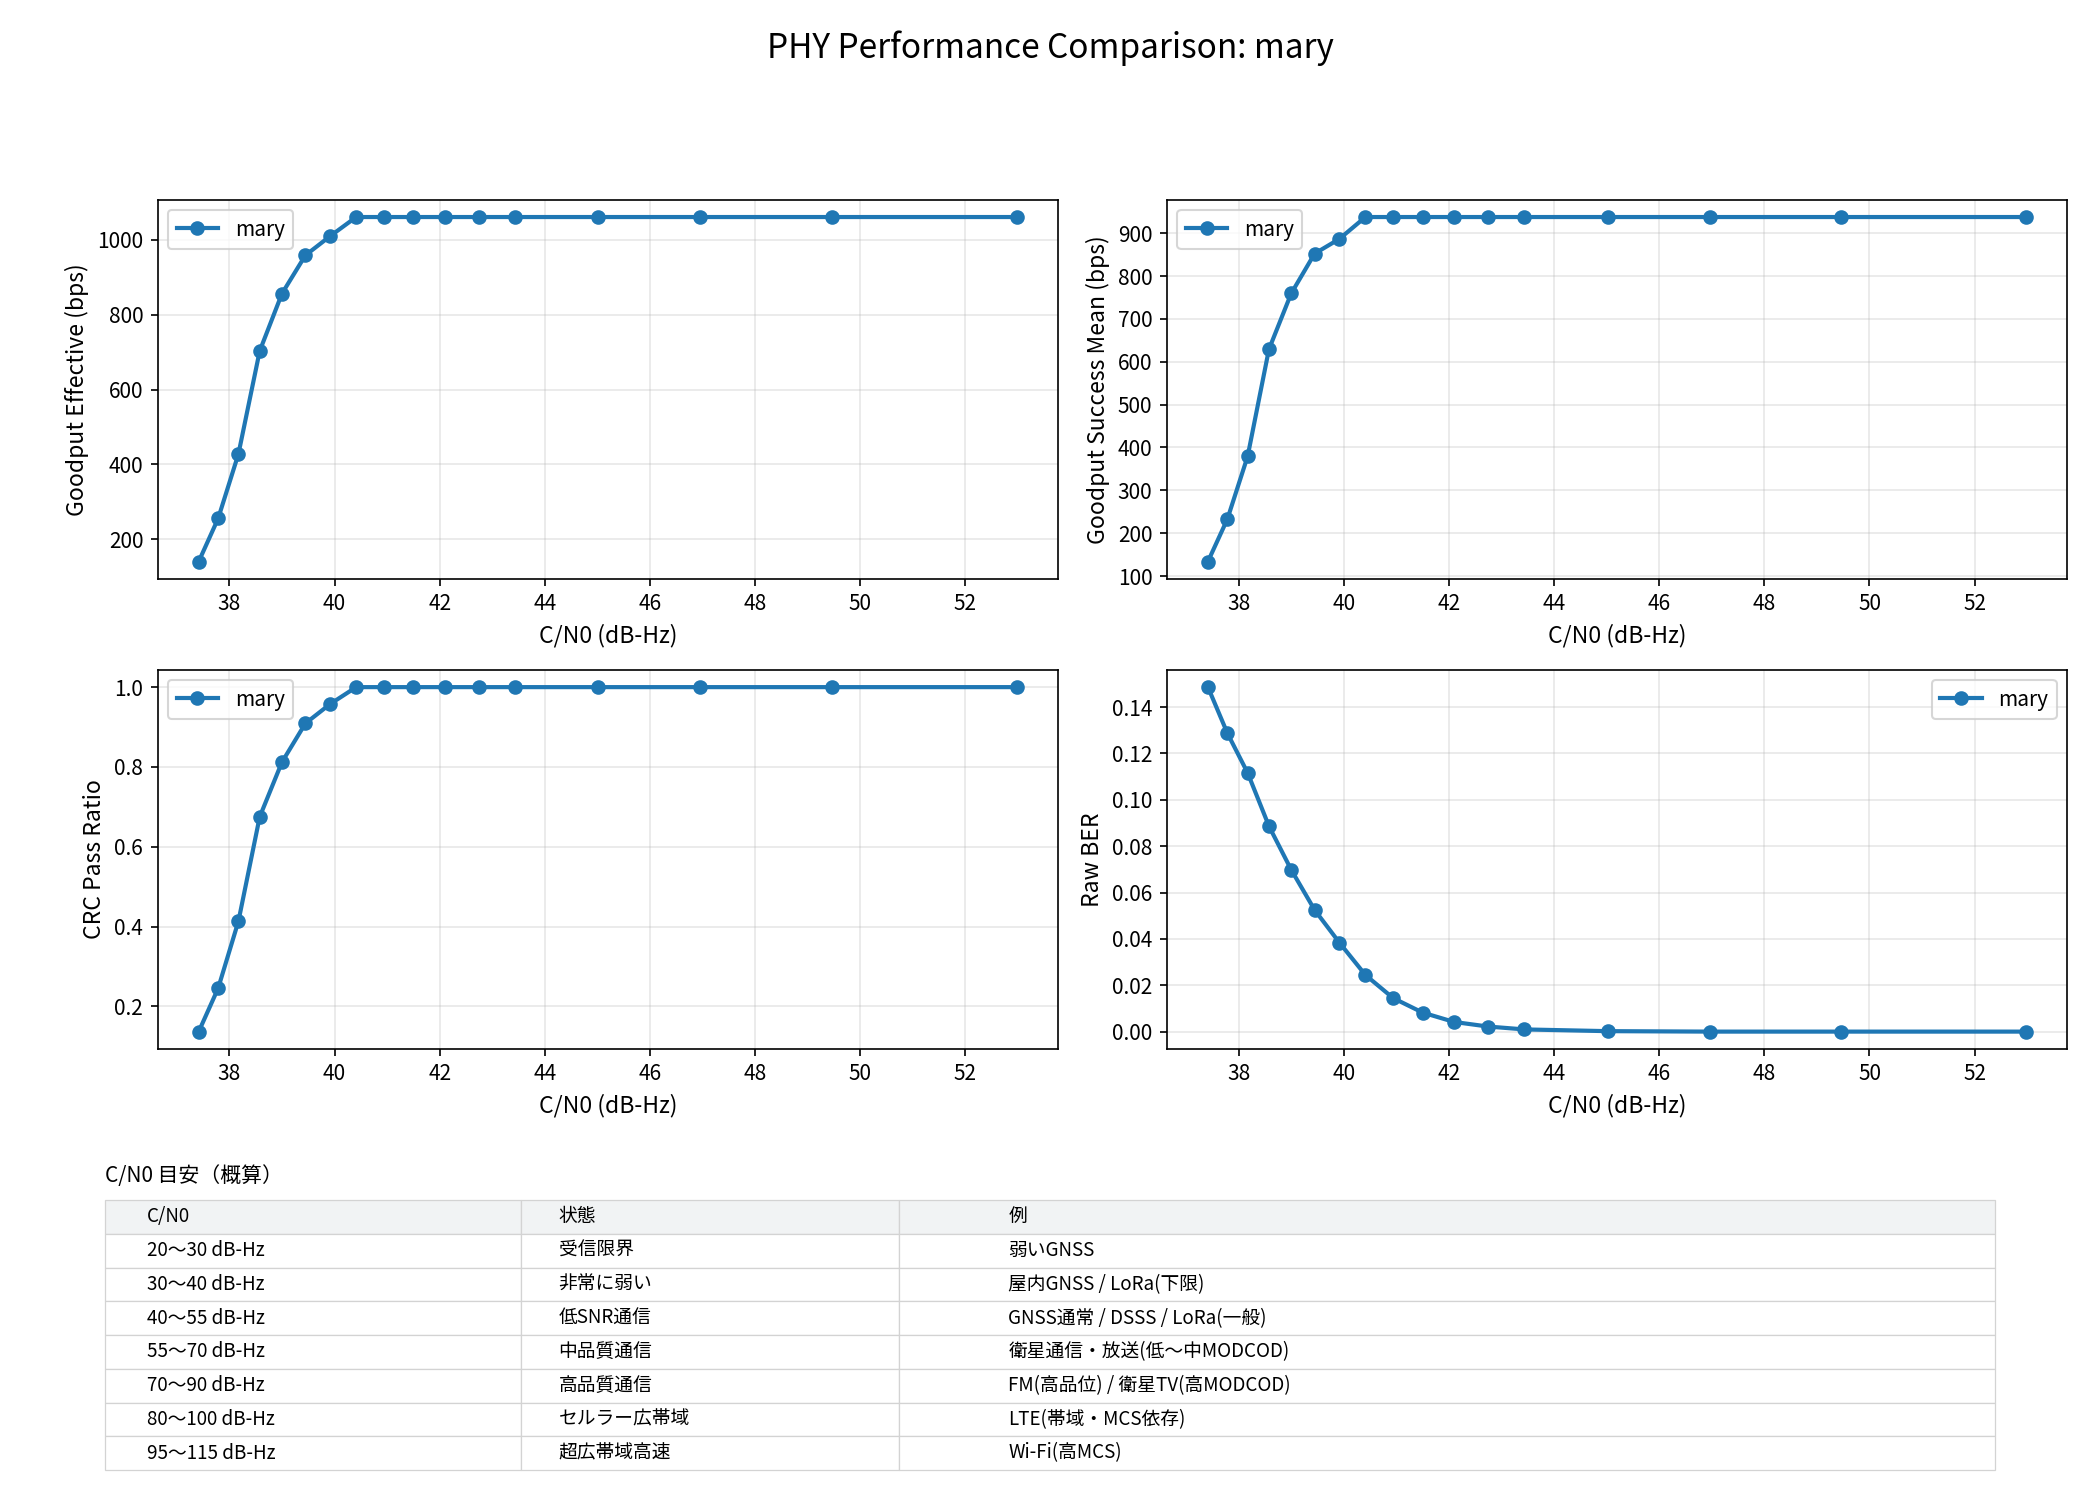
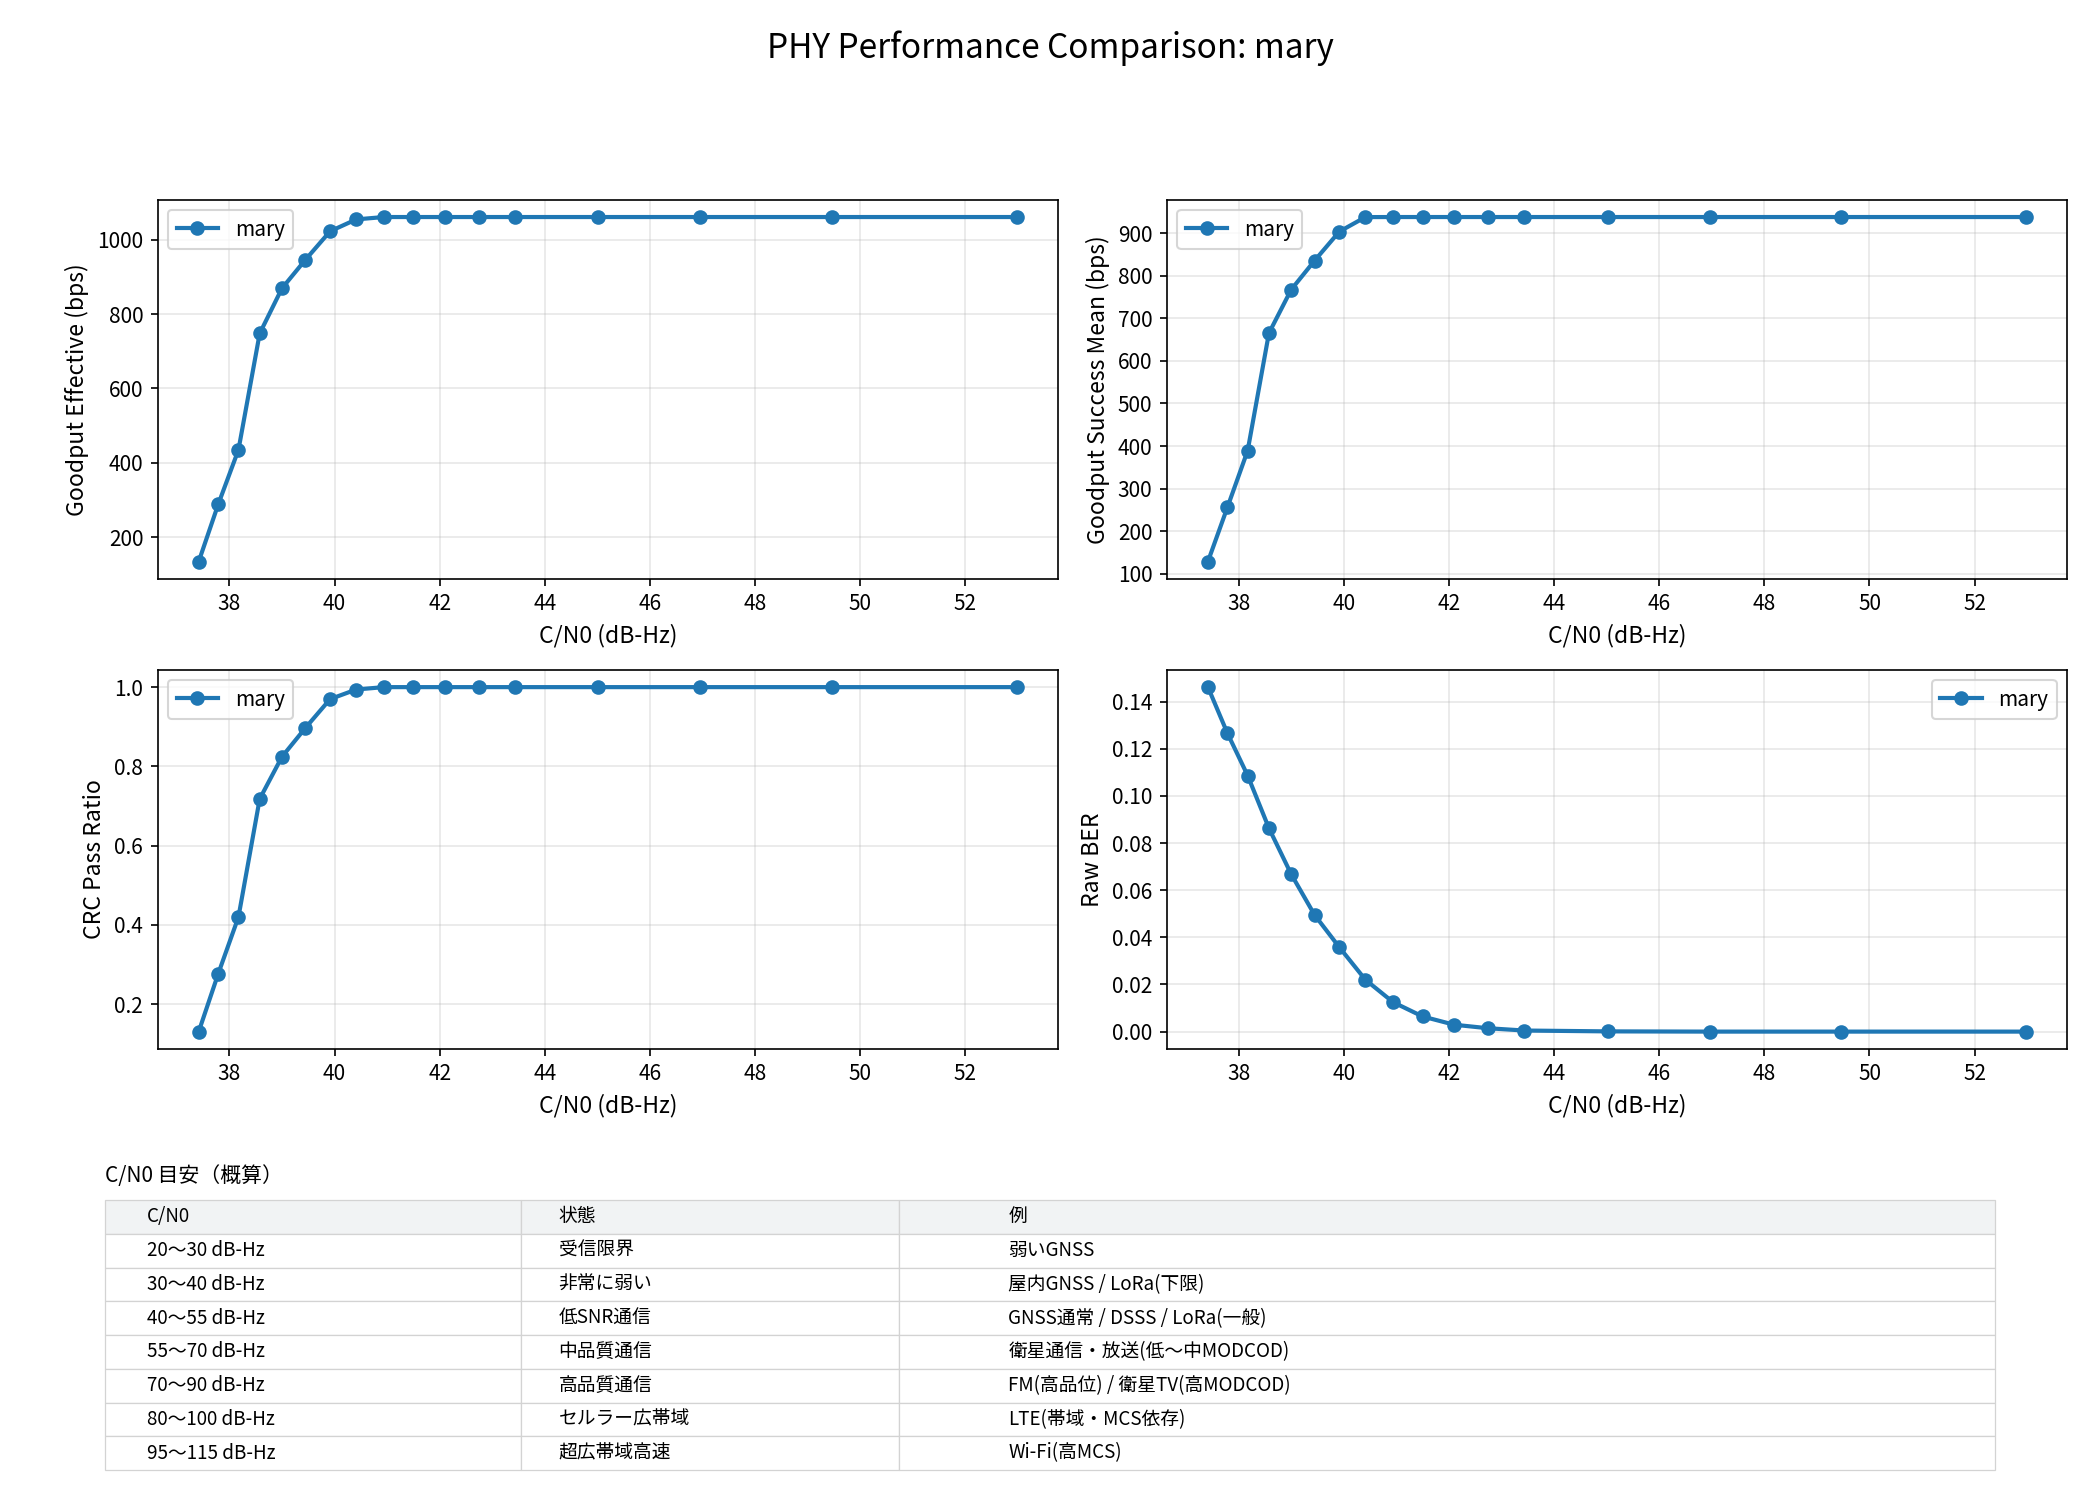
Improve DQPSK soft metrics with joint Walsh marginalization

diff --git a/dsp/src/mary/decoder/packet_decoder.rs b/dsp/src/mary/decoder/packet_decoder.rs
@@ -87,16 +87,26 @@ pub(crate) struct PacketDecodeRuntime<'a> {
     pub llr_callback: &'a mut Option<LlrCallback>,
 }
 
-// DQPSK LLR は通常は best Walsh 仮説で計算する。
-// ただし Walsh 判定が曖昧な場合のみ上位仮説を混合し、LLR をやや保守化して
-// 復号処理で扱いやすい形に寄せる。
-const DQPSK_WALSH_TOPK_MAX: usize = 2;
-// walsh_conf = (E1-E2)/E1 がこの値未満なら Top-K 混合を有効化する。
+// DQPSK LLR は (Walsh仮説 h, 位相仮説 s) の同時尤度を
+// 全Walsh仮説で周辺化して計算する。
+// walsh_conf は位相追跡のゲート制御にも使うため継続して算出する。
+const DQPSK_WALSH_HYPOTHESES: usize = 16;
+// walsh_conf = (E1-E2)/E1 の観測閾値（統計/テストの判定用）。
+// 範囲: [0, 1]。大きくすると「曖昧」と判定される領域が広がる。
+#[cfg(test)]
 const DQPSK_WALSH_TOPK_ENABLE_CONF_THRESH: f32 = 0.30;
 // DQPSK LLR 正規化の雑音床下限スケール。
 // 小さくすると LLR が立ちやすくなり、弱い仮説を過信しやすい（誤判定時の振れが大きくなる）。
 // 大きくすると LLR を保守化できる一方、十分高SNRでも過小信頼になり得る。
+// 妥当目安: >= 1.0。1.0未満は雑音床を過小評価しやすく、LLR過大化を招きやすい。
 const DQPSK_LLR_NOISE_FLOOR_SCALE: f32 = 5.0;
+// prev_phase の位相不確かさ分散推定（EWMA）に使う係数。
+// 妥当範囲: 0.0..1.0（1.0は更新停止に近いので非推奨）。
+// 大きいほど長期平均寄りで安定だが追従は遅く、小さいほど追従は速いが雑音に敏感。
+const DQPSK_PREV_PHASE_VAR_EWMA_ALPHA: f32 = 0.95;
+// 位相分散の上限 [rad]。外れ値で分散推定が暴走しないためのクリップ。
+// 妥当目安: 0.5..PI。小さすぎると常時保守化、大きすぎると外れ値耐性が下がる。
+const DQPSK_PREV_PHASE_SIGMA_MAX_RAD: f32 = 1.2;
 // 期待シンボルの振幅がこの値未満なら、方向が不安定とみなして hard 判定へフォールバックする。
 const DQPSK_PHASE_SOFT_SYMBOL_NORM_MIN: f32 = 1e-3;
 
@@ -115,11 +125,41 @@ struct DecodeCandidateContext<'a> {
     options: &'a PacketDecodeOptions,
 }
 
+#[inline]
+fn log_add_exp(a: f32, b: f32) -> f32 {
+    if !a.is_finite() {
+        return b;
+    }
+    if !b.is_finite() {
+        return a;
+    }
+    let m = a.max(b);
+    m + ((a - m).exp() + (b - m).exp()).ln()
+}
+
+#[inline]
+fn dqpsk_symbol_metrics(diff: Complex32, norm_scale: f32) -> [f32; 4] {
+    let d = diff / norm_scale.max(1e-6);
+    [
+        d.re,  // s0: phase0 -> 00
+        d.im,  // s1: phase1 -> 01
+        -d.re, // s2: phase2 -> 11
+        -d.im, // s3: phase3 -> 10
+    ]
+}
+
+#[inline]
+fn dqpsk_prev_phase_kappa_from_sigma2(sigma2: f32) -> f32 {
+    let sigma2_clamped = sigma2.clamp(0.0, DQPSK_PREV_PHASE_SIGMA_MAX_RAD.powi(2));
+    (-0.5 * sigma2_clamped).exp().clamp(0.0, 1.0)
+}
+
 fn dqpsk_llr_from_walsh_hypotheses(
     demodulator: &Demodulator,
     on_corrs: &[Complex32; 16],
     phase_ref: Complex32,
     prev_phase: Complex32,
+    prev_phase_kappa: f32,
     max_energy: f32,
     second_energy: f32,
     on_rot_best: Complex32,
@@ -127,64 +167,50 @@ fn dqpsk_llr_from_walsh_hypotheses(
 ) -> ([f32; 2], f32, usize, [f32; 16]) {
     let energies: [f32; 16] = on_corrs.map(|c| c.norm_sqr());
     let walsh_conf = ((max_energy - second_energy).max(0.0)) / max_energy.max(1e-6);
-
-    let dqpsk_topk = if walsh_conf < DQPSK_WALSH_TOPK_ENABLE_CONF_THRESH {
-        DQPSK_WALSH_TOPK_MAX
-    } else {
-        1usize
-    };
-
-    let mut top_indices = [0usize; DQPSK_WALSH_TOPK_MAX];
-    let mut top_energies = [0.0f32; DQPSK_WALSH_TOPK_MAX];
-    for (idx, &energy) in energies.iter().enumerate() {
-        for pos in 0..DQPSK_WALSH_TOPK_MAX {
-            if energy > top_energies[pos] {
-                for shift in (pos + 1..DQPSK_WALSH_TOPK_MAX).rev() {
-                    top_energies[shift] = top_energies[shift - 1];
-                    top_indices[shift] = top_indices[shift - 1];
-                }
-                top_energies[pos] = energy;
-                top_indices[pos] = idx;
-                break;
-            }
-        }
-    }
-
-    let mut dqpsk_llr = [0.0f32; 2];
-    let mut llr_weight_sum = 0.0f32;
     let energy_sum = energies.iter().sum::<f32>();
-    for rank in 0..dqpsk_topk {
-        let idx = top_indices[rank];
-        // 上位仮説を優先するため energy^2 で重み付けする。
-        let weight = top_energies[rank] * top_energies[rank];
-        if weight <= 0.0 {
-            continue;
-        }
+    let walsh_noise_floor_e = ((energy_sum - max_energy).max(0.0) / 15.0).max(1e-6);
+
+    // p(s|y) ∝ Σ_h p(y|h) p(y|s,h) を log-domain で周辺化する。
+    let mut sym_logs = [f32::NEG_INFINITY; 4];
+    for idx in 0..DQPSK_WALSH_HYPOTHESES {
+        let energy_h = energies[idx];
         let on_rot_h = on_corrs[idx] * phase_ref.conj();
         let diff_h = on_rot_h * prev_phase.conj();
-        let noise_floor_h = ((energy_sum - top_energies[rank]).max(0.0) / 15.0).sqrt();
+        let noise_floor_h = ((energy_sum - energy_h).max(0.0) / 15.0).sqrt();
         let norm_h = on_rot_h
             .norm()
             .max(DQPSK_LLR_NOISE_FLOOR_SCALE * noise_floor_h)
             .max(1e-6);
-        let llr_h = demodulator.dqpsk_llr(diff_h, norm_h);
-        dqpsk_llr[0] += weight * llr_h[0];
-        dqpsk_llr[1] += weight * llr_h[1];
-        llr_weight_sum += weight;
+        let mut phase_logs = dqpsk_symbol_metrics(diff_h, norm_h);
+        for item in &mut phase_logs {
+            *item *= prev_phase_kappa;
+        }
+        // 相対ログ重みを使って数値桁落ちを避ける（定数項はLLR差分で相殺される）。
+        let log_p_h = (energy_h - max_energy) / walsh_noise_floor_e;
+        for s in 0..4 {
+            sym_logs[s] = log_add_exp(sym_logs[s], log_p_h + phase_logs[s]);
+        }
     }
-    if llr_weight_sum > 0.0 {
-        dqpsk_llr[0] /= llr_weight_sum;
-        dqpsk_llr[1] /= llr_weight_sum;
+
+    let dqpsk_llr = if sym_logs.iter().all(|v| v.is_finite()) {
+        let bit0_0 = log_add_exp(sym_logs[0], sym_logs[1]);
+        let bit0_1 = log_add_exp(sym_logs[2], sym_logs[3]);
+        let bit1_0 = log_add_exp(sym_logs[0], sym_logs[3]);
+        let bit1_1 = log_add_exp(sym_logs[1], sym_logs[2]);
+        [bit0_0 - bit0_1, bit1_0 - bit1_1]
     } else {
         let noise_floor_best = ((energy_sum - max_energy).max(0.0) / 15.0).sqrt();
         let dqpsk_norm = on_rot_best
             .norm()
             .max(DQPSK_LLR_NOISE_FLOOR_SCALE * noise_floor_best)
             .max(1e-6);
-        dqpsk_llr = demodulator.dqpsk_llr(diff_best, dqpsk_norm);
-    }
+        let mut llr = demodulator.dqpsk_llr(diff_best, dqpsk_norm);
+        llr[0] *= prev_phase_kappa;
+        llr[1] *= prev_phase_kappa;
+        llr
+    };
 
-    (dqpsk_llr, walsh_conf, dqpsk_topk, energies)
+    (dqpsk_llr, walsh_conf, DQPSK_WALSH_HYPOTHESES, energies)
 }
 
 pub(crate) fn process_packet_core<D>(
@@ -210,6 +236,7 @@ where
 
     buffers.packet_llrs_buffer.clear();
     let mut total_packet_energy = 0.0f32;
+    let mut prev_phase_sigma2 = 0.0f32;
 
     for sym_idx in 0..expected_symbols {
         let symbol_start = options.spc + sym_idx * PAYLOAD_SPREAD_FACTOR * options.spc;
@@ -266,12 +293,14 @@ where
         let best_corr = on_corrs[best_idx];
         let on_rot = best_corr * tracking_state.phase_ref.conj();
         let diff = on_rot * prev_phase.conj();
+        let prev_phase_kappa = dqpsk_prev_phase_kappa_from_sigma2(prev_phase_sigma2);
 
         let (dqpsk_llr, walsh_conf, _topk_used, energies) = dqpsk_llr_from_walsh_hypotheses(
             demodulator,
             &on_corrs,
             tracking_state.phase_ref,
             *prev_phase,
+            prev_phase_kappa,
             max_energy,
             second_energy,
             on_rot,
@@ -312,6 +341,9 @@ where
         if phase_err_abs >= PHASE_ERR_ABS_THRESH_1P0_RAD {
             stats.phase_err_abs_ge_1p0_symbols += 1;
         }
+        let phase_var_sample = (phase_err_abs * phase_err_abs).min(DQPSK_PREV_PHASE_SIGMA_MAX_RAD.powi(2));
+        prev_phase_sigma2 = DQPSK_PREV_PHASE_VAR_EWMA_ALPHA * prev_phase_sigma2
+            + (1.0 - DQPSK_PREV_PHASE_VAR_EWMA_ALPHA) * phase_var_sample;
         let innovation_rejected = tracking_state.phase_gate_enabled
             && phase_err_abs > TRACKING_PHASE_ERR_GATE_RAD
             && dqpsk_conf_tracking < TRACKING_PHASE_ERR_GATE_DQPSK_CONF_HIGH;
@@ -776,6 +808,7 @@ mod tests {
             &on_corrs,
             phase_ref,
             prev_phase,
+            1.0,
             100.0,
             1.0,
             on_rot_best,
@@ -784,13 +817,14 @@ mod tests {
         let expected = demodulator.dqpsk_llr(diff_best, on_rot_best.norm());
 
         assert!(walsh_conf > DQPSK_WALSH_TOPK_ENABLE_CONF_THRESH);
-        assert_eq!(topk_used, 1);
-        assert_close(dqpsk_llr[0], expected[0], 1e-5, "llr0");
-        assert_close(dqpsk_llr[1], expected[1], 1e-5, "llr1");
+        assert_eq!(topk_used, DQPSK_WALSH_HYPOTHESES);
+        // Walsh尤度が十分に鋭い場合は joint 周辺化でも単一仮説に近づく。
+        assert_close(dqpsk_llr[0], expected[0], 1e-3, "llr0");
+        assert_close(dqpsk_llr[1], expected[1], 1e-3, "llr1");
     }
 
     #[test]
-    fn test_dqpsk_llr_uses_top2_weighted_mix_when_walsh_conf_is_low() {
+    fn test_dqpsk_llr_uses_joint_marginalization_when_walsh_conf_is_low() {
         let demodulator = Demodulator::new();
         let mut on_corrs = [Complex32::new(0.0, 0.0); 16];
         on_corrs[0] = Complex32::new(10.0, 0.0); // energy=100, phase0
@@ -806,6 +840,7 @@ mod tests {
             &on_corrs,
             phase_ref,
             prev_phase,
+            1.0,
             100.0,
             80.0,
             on_rot_best,
@@ -814,30 +849,33 @@ mod tests {
 
         let energies: [f32; 16] = on_corrs.map(|c| c.norm_sqr());
         let energy_sum = energies.iter().sum::<f32>();
-        let noise_floor0 = ((energy_sum - energies[0]).max(0.0) / 15.0).sqrt();
-        let noise_floor1 = ((energy_sum - energies[1]).max(0.0) / 15.0).sqrt();
-        let norm0 = on_corrs[0]
-            .norm()
-            .max(DQPSK_LLR_NOISE_FLOOR_SCALE * noise_floor0)
-            .max(1e-6);
-        let norm1 = on_corrs[1]
-            .norm()
-            .max(DQPSK_LLR_NOISE_FLOOR_SCALE * noise_floor1)
-            .max(1e-6);
-        let llr0 = demodulator.dqpsk_llr(on_corrs[0], norm0);
-        let llr1 = demodulator.dqpsk_llr(on_corrs[1], norm1);
-        let w0 = 100.0f32 * 100.0f32;
-        let w1 = 80.0f32 * 80.0f32;
+        let walsh_noise_floor_e = ((energy_sum - 100.0).max(0.0) / 15.0).max(1e-6);
+        let mut sym_logs = [f32::NEG_INFINITY; 4];
+        for idx in 0..DQPSK_WALSH_HYPOTHESES {
+            let energy_h = energies[idx];
+            let on_rot_h = on_corrs[idx] * phase_ref.conj();
+            let diff_h = on_rot_h * prev_phase.conj();
+            let noise_floor_h = ((energy_sum - energy_h).max(0.0) / 15.0).sqrt();
+            let norm_h = on_rot_h
+                .norm()
+                .max(DQPSK_LLR_NOISE_FLOOR_SCALE * noise_floor_h)
+                .max(1e-6);
+            let m = dqpsk_symbol_metrics(diff_h, norm_h);
+            let log_p_h = (energy_h - 100.0) / walsh_noise_floor_e;
+            for s in 0..4 {
+                sym_logs[s] = log_add_exp(sym_logs[s], log_p_h + m[s]);
+            }
+        }
         let expected = [
-            (w0 * llr0[0] + w1 * llr1[0]) / (w0 + w1),
-            (w0 * llr0[1] + w1 * llr1[1]) / (w0 + w1),
+            log_add_exp(sym_logs[0], sym_logs[1]) - log_add_exp(sym_logs[2], sym_logs[3]),
+            log_add_exp(sym_logs[0], sym_logs[3]) - log_add_exp(sym_logs[1], sym_logs[2]),
         ];
 
         assert!(walsh_conf < DQPSK_WALSH_TOPK_ENABLE_CONF_THRESH);
-        assert_eq!(topk_used, 2);
+        assert_eq!(topk_used, DQPSK_WALSH_HYPOTHESES);
         assert_close(dqpsk_llr[0], expected[0], 1e-4, "llr0");
         assert_close(dqpsk_llr[1], expected[1], 1e-4, "llr1");
-        assert!((dqpsk_llr[1] - llr0[1]).abs() > 0.1);
+        assert!(dqpsk_llr[0].is_finite() && dqpsk_llr[1].is_finite());
     }
 
     #[test]

diff --git a/README.md b/README.md
@@ -270,13 +270,13 @@ $ cargo run --release --bin dsss_e2e_eval -- \
 
 | scenario                       | ebn0_db         | packet_accept_ratio | synced_frame_ratio | crc_pass_ratio  | raw_ber         | goodput_effective_bps | goodput_success_mean_bps |
 | :----------------------------- | :-------------- | :-------------- | :-------------- | :-------------- | :-------------- | :-------------- | :-------------- |
-| sweep_awgn(sigma=0.500)        | 14.3483         | 1.0000          | 1.0000          | 1.0000          | 1.65e-4         | 1061.4156       | 937.8757        |
-| sweep_awgn(sigma=0.700)        | 11.4257         | 1.0000          | 1.0000          | 1.0000          | 0.0042          | 1061.4156       | 937.8757        |
-| sweep_awgn(sigma=0.800)        | 10.2659         | 0.9880          | 1.0000          | 0.9880          | 0.0142          | 1048.6276       | 929.3496        |
-| sweep_awgn(sigma=0.900)        | 9.2428          | 0.9578          | 1.0000          | 0.9607          | 0.0370          | 1016.6572       | 903.6953        |
-| sweep_awgn(sigma=1.000)        | 8.3277          | 0.8283          | 1.0000          | 0.8333          | 0.0668          | 879.1847        | 780.5814        |
-| sweep_awgn(sigma=1.100)        | 7.4998          | 0.4096          | 1.0000          | 0.4185          | 0.1088          | 434.7968        | 388.3554        |
-| sweep_awgn(sigma=1.200)        | 6.7440          | 0.1265          | 0.9940          | 0.1304          | 0.1484          | 134.2755        | 120.8217        |
+| sweep_awgn(sigma=0.500)        | 14.3483         | 1.0000          | 1.0000          | 1.0000          | 5.51e-5         | 1061.4156       | 937.8757        |
+| sweep_awgn(sigma=0.700)        | 11.4257         | 1.0000          | 1.0000          | 1.0000          | 0.0030          | 1061.4156       | 937.8757        |
+| sweep_awgn(sigma=0.800)        | 10.2659         | 0.9880          | 1.0000          | 0.9880          | 0.0121          | 1048.6276       | 929.3496        |
+| sweep_awgn(sigma=0.900)        | 9.2428          | 0.9639          | 1.0000          | 0.9668          | 0.0344          | 1023.0513       | 903.7712        |
+| sweep_awgn(sigma=1.000)        | 8.3277          | 0.8373          | 1.0000          | 0.8424          | 0.0640          | 888.7758        | 789.1592        |
+| sweep_awgn(sigma=1.100)        | 7.4998          | 0.4066          | 1.0000          | 0.4154          | 0.1062          | 431.5998        | 383.6442        |
+| sweep_awgn(sigma=1.200)        | 6.7440          | 0.1265          | 0.9940          | 0.1304          | 0.1464          | 134.2755        | 120.8217        |
 
 ## ライセンス
 
